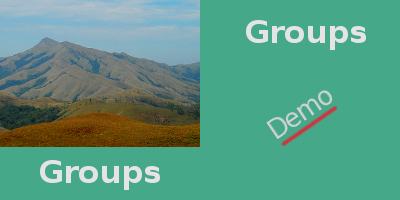
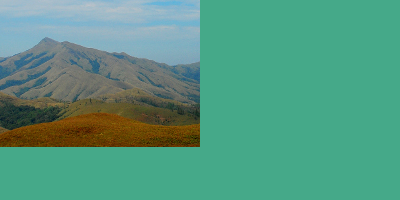
REFS: #255 updated homepage images to blank images and placed text in html

Changed region(s): [[0.09, 0.78, 0.42, 0.96], [0.6, 0.09, 0.93, 0.27], [0.66, 0.45, 0.84, 0.75]]

diff --git a/web-app/css/biodiv.css b/web-app/css/biodiv.css
@@ -2620,7 +2620,20 @@ small {
     background-repeat: no-repeat;
     box-shadow: -3px -1px 21px #777777;
     background-size:200% 100%;
+    position:relative;
 }
+
+#home .content {
+    font-size: 20px;
+    font-weight: bold;
+    text-align: center;
+    color: whitesmoke;
+    position:absolute;
+    bottom: 9px;
+    left: 0px;
+    right: 0px;
+}
+
 .navblock {
     display: inline-block;
     float: left;
